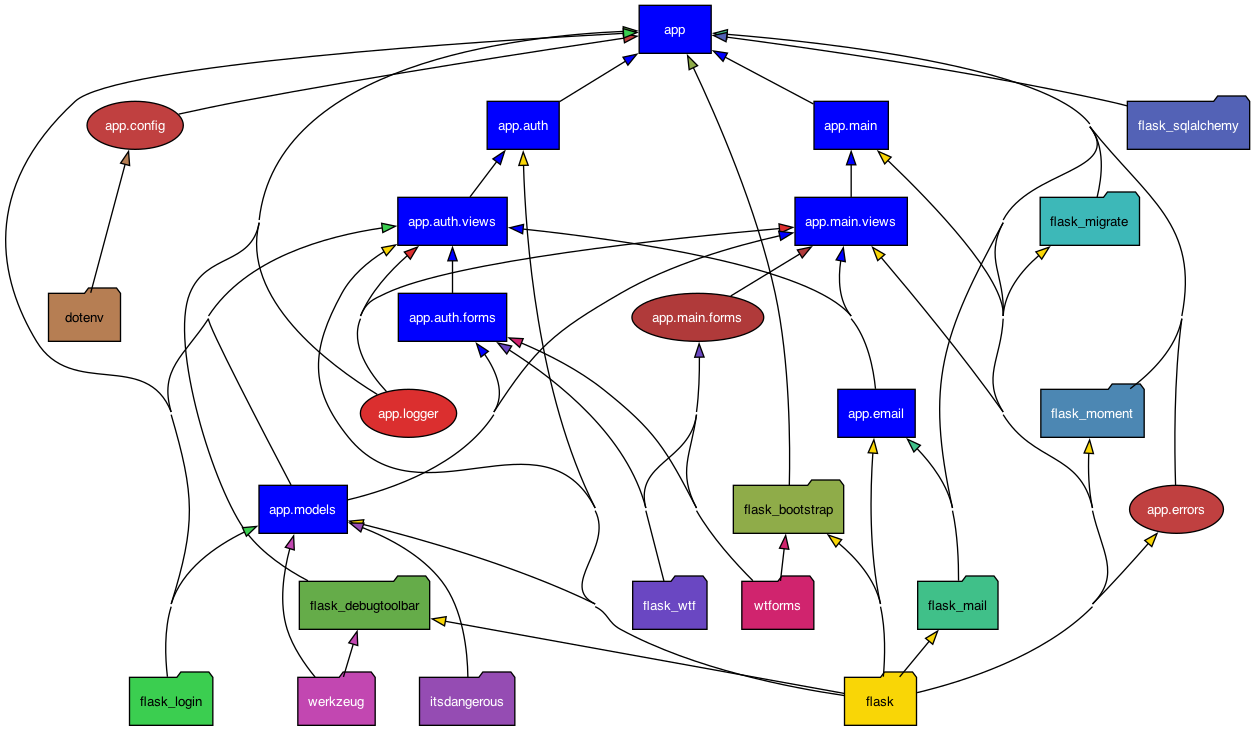
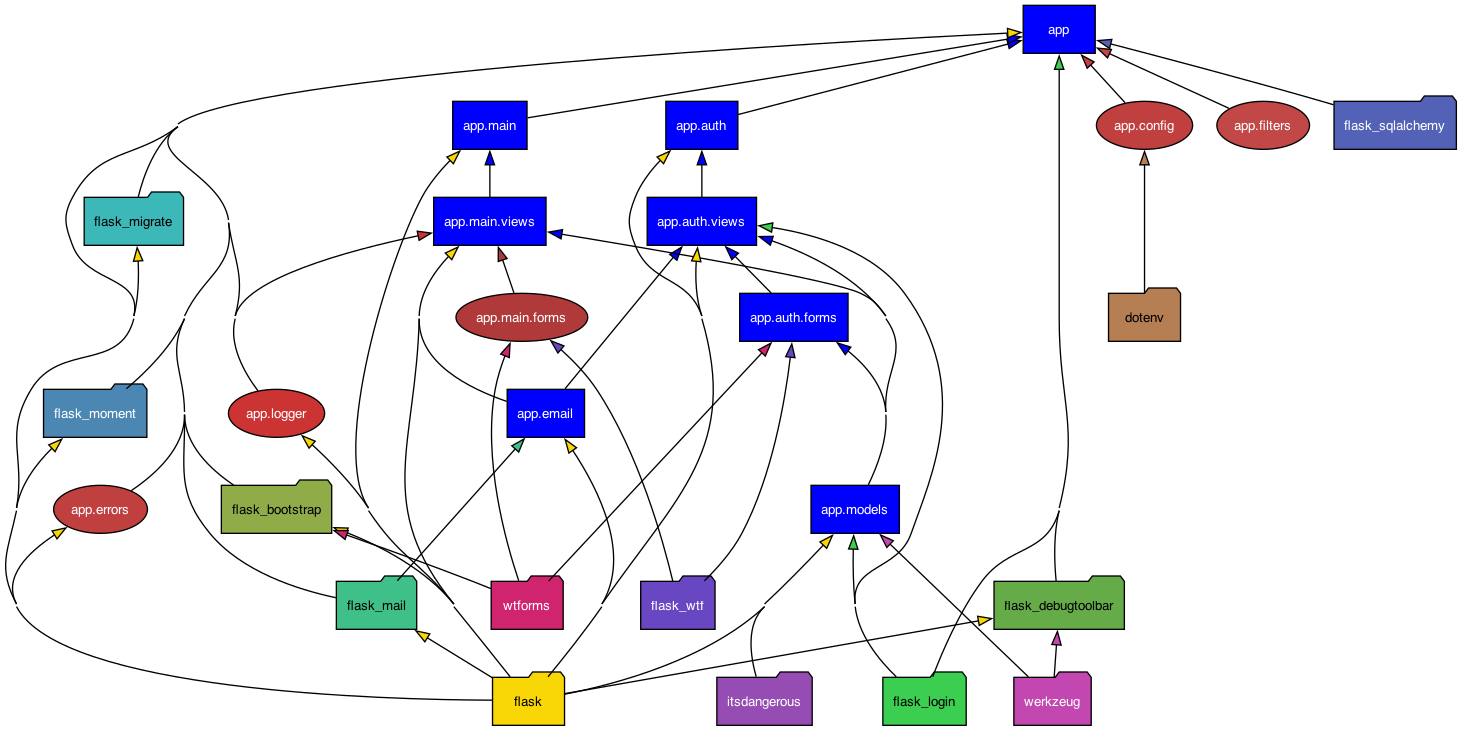
Перевод на SQLAlchemy 2.0

diff --git a/app/templates/logs.html b/app/templates/logs.html
@@ -1,0 +1,34 @@
+{% extends "base.html" %}
+
+{% block title %}Russian Engineers - Логи приложения{% endblock %}
+
+{% block page_content %} 
+<h1>Логи приложения</h1>
+
+<!-- Контейнер с использованием Flexbox или form-inline для горизонтального расположения -->
+<div class="form-inline">
+    <!-- Фильтр по уровням логов -->
+    <div class="form-group mr-3">
+        <label for="log-filter" class="mr-2">Фильтр логов:</label>
+        <select id="log-filter" class="form-control">
+            <option value="all">Все</option>
+            <option value="log-info">INFO</option>
+            <option value="log-warning">WARNING</option>
+            <option value="log-error">ERROR</option>
+        </select>
+    </div>
+
+    <!-- Кнопка обновления -->
+    <button onclick="location.reload()" class="btn btn-primary">Обновить логи</button>
+</div>
+
+<!-- Блок логов -->
+<div class="logs-container">
+    {% for log in logs[::-1] %} {# Новые логи сверху #}
+        <div class="log-entry {{ log|log_class }} mb-3">
+            {{ log }}
+        </div>
+    {% endfor %}
+</div>
+
+{% endblock %}

diff --git a/app/static/js/logs.js b/app/static/js/logs.js
@@ -1,0 +1,21 @@
+document.addEventListener("DOMContentLoaded", function () {
+    console.log("JS файл загружен успешно!"); // Эта строка должна появиться в консоли браузера
+
+    const logFilter = document.getElementById("log-filter");
+    if (logFilter) {
+        logFilter.addEventListener("change", function () {
+            let filter = this.value;
+            let logs = document.querySelectorAll(".log-entry");
+
+            logs.forEach(log => {
+                if (filter === "all") {
+                    log.style.display = "block"; // Показать все
+                } else if (log.classList.contains(filter)) {
+                    log.style.display = "block"; // Показать только выбранные
+                } else {
+                    log.style.display = "none";  // Скрыть остальные
+                }
+            });
+        });
+    }
+});

diff --git a/app/static/css/styles.css b/app/static/css/styles.css
@@ -1,0 +1,44 @@
+/* static/css/styles.css */
+
+.logs-container {
+    max-height: 400px;  /* Ограничение высоты */
+    overflow-y: auto;   /* Прокрутка */
+    background-color: #f8f9fa;
+    padding: 10px;
+    border: 1px solid #ccc;
+    border-radius: 5px;
+    font-family: monospace;
+}
+
+.log-entry {
+    padding: 5px;
+    border-bottom: 1px solid #ddd;
+}
+
+.log-info {
+    color: #28a745 !important; /* Зеленый для INFO */
+}
+.log-warning {
+    color: #ffc107 !important; /* Желтый для WARNING */
+}
+.log-error {
+    color: #dc3545 !important; /* Красный для ERROR */
+}
+
+.refresh-btn {
+    padding: 8px 16px;
+    background-color: #007bff;
+    color: white;
+    border: none;
+    cursor: pointer;
+    border-radius: 5px;
+    margin-bottom: 10px;
+}
+
+#log-filter {
+    margin: 10px 0;
+    padding: 5px;
+    font-size: 16px;
+    border: 1px solid #ccc;
+    border-radius: 5px;
+}

diff --git a/app/templates/base.html b/app/templates/base.html
@@ -3,6 +3,7 @@
 {{ super() }}  
 <link rel="shortcut icon" href="{{ url_for('static', filename = 'favicon.ico') }}"	type="image/x-icon">  
 <link rel="icon" href="{{ url_for('static', filename = 'favicon.ico') }}" type="image/x-icon"> 
+<link rel="stylesheet" href="{{ url_for('static', filename='css/styles.css') }}">
 {{ moment.include_moment() }} 
 {{ moment.lang('ru') }} 
 {% endblock %}
@@ -24,7 +25,7 @@
 		</div>  
 		<div class="navbar-collapse collapse">
 			<ul class="nav navbar-nav"> 
-				<li><a href="/">Home</a></li>
+				<li><a href="{{ url_for('main.show_logs') }}">Logs</a></li>
 			</ul> 
 			<ul class="nav navbar-nav navbar-right">
 				{% if current_user.is_authenticated %}
@@ -59,4 +60,10 @@
 
 	{% block page_content %}{% endblock %}
 </div>
+
+{% endblock %}
+
+{% block scripts %}
+    {{ super() }}  
+    <script src="{{ url_for('static', filename='js/logs.js') }}"></script>
 {% endblock %}

diff --git a/app/logger.py b/app/logger.py
@@ -1,37 +1,75 @@
-"""Настройка логирования для приложения.
+"""
+Модуль логирования для Flask-приложения.
 
-Этот модуль конфигурирует логирование, включая:
-    - Создание именованного логгера.
-    - Настройку формата сообщений.
-    - Добавление обработчика для вывода логов в консоль.
+Этот модуль настраивает логирование в приложении Flask, включая:
+- Вывод логов в консоль.
+- Запись логов в файл.
+- Автоматическое создание директории и файла логов.
+- Очистку существующих обработчиков для предотвращения дублирования.
 
-Логгер записывает сообщения уровня INFO и выше.
+Пример использования:
+    from flask import Flask
+    from logger import setup_logger
+
+    app = Flask(__name__)
+    setup_logger(app)
+    app.logger.info("Приложение запущено.")
 """
 
 import logging
+import os
+
+from flask import Flask
+
+LOG_FILE = "logs/app.log"
 
 
-def setup_logger() -> logging.Logger:
-    """Создаёт и настраивает логгер для приложения.
+def setup_logger(app: Flask):
+    """Настраивает логирование для Flask-приложения.
 
-    Возвращает:
-        logging.Logger: Настроенный логгер.
+    Функция выполняет следующие действия:
+    1. Устанавливает уровень логирования на INFO.
+    2. Отключает распространение логов, чтобы избежать дублирования.
+    3. Создаёт папку и файл логов, если они не существуют.
+    4. Очищает существующие обработчики логирования.
+    5. Добавляет обработчик для вывода логов в консоль.
+    6. Добавляет обработчик для записи логов в файл.
+
+    Args:
+        app (Flask): Flask-приложение, для которого настраивается логирование.
+
+    Raises:
+        Exception: В случае ошибки при настройке логирования.
     """
-    logger = logging.getLogger("my_app")
-    logger.setLevel(logging.INFO)
+    app.logger.setLevel(logging.INFO)
+    app.logger.propagate = False  # Отключаем распространение логов
 
-    # Определение формата логирования
-    formatter = logging.Formatter(
-        "%(asctime)s - %(name)s - %(levelname)s - %(message)s"
-    )
+    try:
+        if not os.path.exists("logs"):
+            os.makedirs("logs")  # Создаём папку для логов, если её нет
 
-    # Создание обработчика для вывода в консоль
-    handler = logging.StreamHandler()
-    handler.setFormatter(formatter)
-    logger.addHandler(handler)
+        if not os.path.exists(LOG_FILE):
+            with open(LOG_FILE, "w", encoding="utf-8") as f:
+                f.write("")  # Создаём пустой файл, если его нет
+        
+        # Очищаем логгер от всех хэндлеров.
+        app.logger.handlers.clear()
+        formatter = logging.Formatter(
+            "%(asctime)s - %(name)s - %(levelname)s - %(message)s"
+        )
 
-    return logger
+        # Обработчик для вывода в консоль
+        std_handler = logging.StreamHandler()
+        std_handler.setFormatter(formatter)
+        app.logger.addHandler(std_handler)
 
+        # Обработчик для записи в файл
+        file_handler = logging.FileHandler(LOG_FILE, encoding="utf-8")
+        file_handler.setFormatter(formatter)
+        # file_handler.setLevel(logging.INFO)
+        app.logger.addHandler(file_handler)
 
-# Инициализация логгера
-logger = setup_logger()
+        app.logger.info("Логирование успешно настроено.")
+
+    except Exception as e:
+        print(f"Ошибка при настройке логирования: {e}")

diff --git a/app/auth/views.py b/app/auth/views.py
@@ -6,12 +6,9 @@ from flask_login import current_user, login_required, login_user, logout_user
 
 from .. import db
 from ..email import create_and_send_email_async
-from ..logger import logger
 from ..models import User
 from . import auth_bp
 from .forms import LoginForm, RegistrationForm
-
-# logger = setup_logger()
 
 
 @auth_bp.route('/login', methods=['GET', 'POST'])
@@ -55,17 +52,18 @@ def login():
 
     form = LoginForm()
     if form.validate_on_submit():
-        user = User.query.filter_by(email=form.email.data).first()
+        # user = User.query.filter_by(email=form.email.data).first()
+        user = db.session.scalar(db.select(User).where(User.email == form.email.data))
 
         # Проверка пользователя и пароля
         if user is None or not user.verify_password(form.password.data):
-            logger.warning(f'Неудачная попытка входа для email: {form.email.data}')
+            current_app.logger.warning(f'Неудачная попытка входа для email: {form.email.data}')
             flash('Неверный емэйл или пароль, дядь. Ебани еще разок!', 'error')
             return redirect(url_for('.login'))
 
         # Вход пользователя
         login_user(user, remember=form.remember_me.data)
-        logger.info(f'Пользователь {user.email} успешно вошёл в систему.')
+        current_app.logger.info(f'Пользователь {user.email} успешно вошёл в систему.')
 
         # Проверка безопасности URL, запрошенного до входа, на то,
         # что от является относительным без домена. Это предотвращает
@@ -253,7 +251,7 @@ def logout():
         декоратору `@login_required`.
     """
     logout_user()
-    logger.info('Пользователь покинул систему.')
+    current_app.logger.info('Пользователь покинул систему.')
     flash('А нахуя тогда логинился ?')
     return redirect(url_for('main.index'))
 

diff --git a/app/main/views.py b/app/main/views.py
@@ -20,7 +20,7 @@ from flask import (current_app, flash, redirect, render_template, request,
 
 from .. import db
 from ..email import create_and_send_email_async
-from ..logger import logger
+from ..logger import LOG_FILE
 from ..models import User
 from . import main_bp
 from .forms import NameForm
@@ -39,11 +39,11 @@ def index():
     Возвращает:
         Response: Шаблон главной страницы с параметрами пользователя.
     """
-    logger.info('Обращение к главной странице')
+    current_app.logger.info('Обращение к главной странице')
     user_agent = request.headers.get('User-Agent')
     form = NameForm()
     if form.validate_on_submit():
-        user = User.query.filter_by(username=form.name.data).first()
+        user = db.session.scalar(db.select(User).where(User.username == form.name.data))
         if user is None:
             user = User(username=form.name.data)
             session['known'] = False
@@ -88,3 +88,15 @@ def user(name):
 def trigger_500():
     # Искусственно вызываем ошибку 500
     raise Exception("Это тестовая ошибка 500")
+
+
+@main_bp.route("/logs")
+def show_logs():
+    """Читает логи из файла и передаёт их в HTML-шаблон."""
+    try:
+        with open(LOG_FILE, "r", encoding="utf-8") as f:
+            logs = f.readlines()
+    except FileNotFoundError:
+        logs = ["Лог-файл пока не создан."]
+
+    return render_template("logs.html", logs=logs)

diff --git a/app/__init__.py b/app/__init__.py
@@ -26,6 +26,7 @@ from flask_sqlalchemy import SQLAlchemy
 
 from .config import config
 from .errors import register_error_handlers
+from .filters import log_class
 from .logger import setup_logger
 
 toolbar = DebugToolbarExtension()
@@ -34,7 +35,6 @@ mail = Mail()
 moment = Moment()
 db = SQLAlchemy()
 migrate = Migrate()
-logger = setup_logger()
 
 # Инициализация Flask-Login и настройка
 login_manager = LoginManager()
@@ -59,11 +59,7 @@ def create_app(config_name=None):
     # Передаем экземпляр, чтобы @property в config.py сработало
     app.config.from_object(config[config_name]())
 
-    # Очищаем встроенные обработчики Flask
-    app.logger.handlers.clear()
-
-    # Добавляем кастомный логгер к Flask
-    app.logger = logger
+    setup_logger(app)
 
     toolbar.init_app(app)
     bootstrap.init_app(app)
@@ -78,8 +74,11 @@ def create_app(config_name=None):
     app.register_blueprint(main_bp)
 
     from .auth import auth_bp
-    app.register_blueprint(auth_bp, url_prefix='/auth')
+    app.register_blueprint(auth_bp)
 
     register_error_handlers(app)
+
+    # Регистрируем фильтр Jinja2
+    app.jinja_env.filters["log_class"] = log_class
 
     return app

diff --git a/app/filters.py b/app/filters.py
@@ -1,0 +1,15 @@
+"""
+Молуль для создания кастомных фильтров Jinja.
+"""
+
+
+def log_class(log):
+    """Определяет CSS-класс для строки лога."""
+    log = log.upper()  # Делаем регистр одинаковым
+    if "ERROR" in log:
+        return "log-error"
+    elif "WARNING" in log:
+        return "log-warning"
+    elif "INFO" in log:
+        return "log-info"
+    return ""

diff --git a/app/auth/__init__.py b/app/auth/__init__.py
@@ -7,6 +7,6 @@
 
 from flask import Blueprint
 
-auth_bp = Blueprint('auth', __name__)
+auth_bp = Blueprint('auth', __name__, url_prefix='/auth')
 
 from . import views
